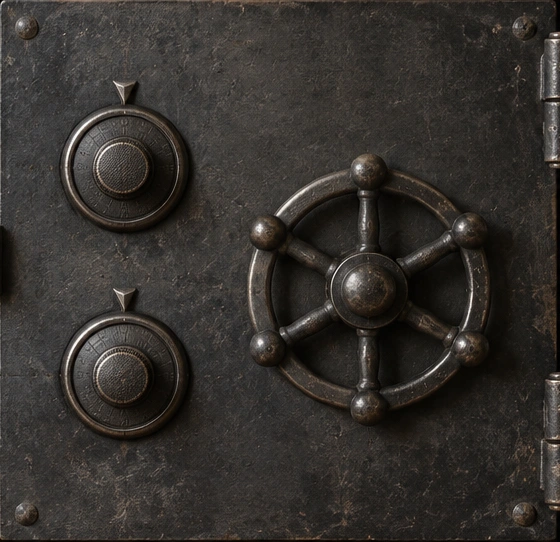
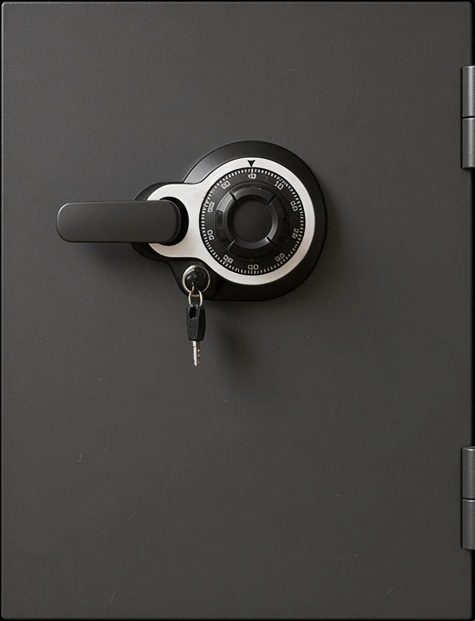
Replace the antique iron safe with a modern steel safe matched to the reference photo
New registered photo set (closed dial, keypad, open empty/gold/brass, door back) generated from one master shot; single live dial with white 0-40 graduations on the black disc; door, dial and readout coordinates re-measured; add measure-plates diagnostic.

diff --git a/src/components/vault/safe-stage.css b/src/components/vault/safe-stage.css
@@ -1,8 +1,8 @@
 .safe-stage { position: relative; width: 100%; aspect-ratio: 3 / 2; isolation: isolate; user-select: none; }
-.safe-photo-space { position: absolute; inset: 0; perspective: 1500px; perspective-origin: 65% 51%; }
+.safe-photo-space { position: absolute; inset: 0; perspective: 1500px; perspective-origin: 71% 50%; }
 .safe-room { display: block; width: 100%; height: 100%; object-fit: cover; pointer-events: none; }
-/* All coordinates are registered to the 1536 × 1024 source photograph. */
-.safe-cavity, .safe-door { position: absolute; left: 31.12%; top: 22.46%; width: 36.46%; height: 52.93%; }
+/* All coordinates are registered to the 1152 × 768 room plate (scripts/prepare-assets.mjs). */
+.safe-cavity, .safe-door { position: absolute; left: 29.514%; top: 8.854%; width: 41.233%; height: 80.859%; }
 .safe-cavity { overflow: hidden; }
 .safe-cavity img { display: block; width: 100%; height: 100%; }
 .safe-door { transform-origin: 100% 50%; transform-style: preserve-3d; transition: transform 1.8s cubic-bezier(.2,.65,.22,1); will-change: transform; }
@@ -11,13 +11,13 @@
 .safe-door-front { transform: translateZ(1px); }
 .safe-door-photo, .safe-door-back > img { display: block; width: 100%; height: 100%; object-fit: fill; pointer-events: none; }
 .safe-door-back { transform: rotateY(180deg) translateZ(6px); }
-.safe-door-thickness { position: absolute; left: 0; top: 0; width: 10px; height: 100%; transform: rotateY(90deg); transform-origin: 0 50%; background-color: #1b1c19; background-size: 100% 100%, auto 100%; background-position: 0 0, 0 0; filter: brightness(.8) contrast(1.1); }
-.live-dial { position: absolute; left: 10.18%; top: 19.37%; width: 22.86%; aspect-ratio: 1; border-radius: 50%; touch-action: none; cursor: ew-resize; }
-.dial-face { display: block; width: 100%; height: 100%; border-radius: 50%; transform: rotate(var(--dial-angle)); filter: drop-shadow(0 1px 1px #0006); }
-.idle-dial { position: absolute; left: 10.18%; top: 58.12%; width: 22.86%; aspect-ratio: 1; pointer-events: none; overflow: visible; }
-.dial-face text, .idle-dial text { font-family: Georgia, serif; paint-order: stroke fill; stroke: #191c19; stroke-width: .6; }
-.dial-access { position: absolute; left: 34.63%; top: 32.71%; width: 8.85%; aspect-ratio: 1; border-radius: 50%; touch-action: none; cursor: ew-resize; z-index: 3; }
+.safe-door-thickness { position: absolute; left: 0; top: 0; width: 12px; height: 100%; transform: rotateY(90deg); transform-origin: 0 50%; background-color: #3a3b3c; background-size: 100% 100%, auto 100%; background-position: 0 0, 0 0; filter: brightness(.85); }
+/* The rotating black number disc; the white bezel and index stay on the door plate. */
+.live-dial { position: absolute; left: 41.684%; top: 27.053%; width: 22.737%; aspect-ratio: 1; border-radius: 50%; touch-action: none; cursor: ew-resize; }
+.dial-face { display: block; width: 100%; height: 100%; border-radius: 50%; transform: rotate(var(--dial-angle)); clip-path: circle(49% at 50% 50%); }
+.dial-face text { font-family: 'Helvetica Neue', Arial, sans-serif; }
+.dial-access { position: absolute; left: 46.701%; top: 30.729%; width: 9.375%; aspect-ratio: 1; border-radius: 50%; touch-action: none; cursor: ew-resize; z-index: 3; }
 .dial-access:hover { box-shadow: 0 0 0 2px #e2ce8b66; }
 .dial-access:focus-visible { outline: 2px solid #e2ce8b; outline-offset: 4px; }
-.ember-readout { position: absolute; left: 12.8%; top: 23.1%; width: 22.5%; height: 8.4%; display: grid; place-items: center; font-family: 'Courier New', monospace; color: #e17d4e; font-size: clamp(10px, 2vw, 26px); font-weight: 700; line-height: 1; text-shadow: 0 0 6px #dc6838aa; }
+.ember-readout { position: absolute; left: 40.42%; top: 28.18%; width: 22.32%; height: 8.7%; display: grid; place-items: center; font-family: 'Courier New', monospace; color: #ff8a52; font-size: clamp(10px, 2.2vw, 28px); font-weight: 700; line-height: 1; text-shadow: 0 0 6px #ff6a2eaa, 0 0 14px #ff5a1e55; }
 @media (prefers-reduced-motion: reduce) { .safe-door { transition-duration: .01s; } }

diff --git a/src/components/vault/safe-stage.tsx b/src/components/vault/safe-stage.tsx
@@ -21,19 +21,20 @@ export function safeAsset(name: string): string {
 const wrap = (n: number) => ((n % 41) + 41) % 41;
 const step = 360 / 41;
 
-/** Engraved 0–40 ring drawn over a photographed dial. The dark band hides the photo's baked, illegible numerals. */
-function DialRing({ value, live = false }: { value: number; live?: boolean }): JSX.Element {
+/**
+ * White 0–40 graduations printed on the photographed black number disc (radius 62.8 in this viewBox).
+ * The black band hides the photo's baked, illegible numerals.
+ */
+function DialRing({ value }: { value: number }): JSX.Element {
   return <>
-    <circle r="46.5" fill="none" stroke="#161714" strokeOpacity=".68" strokeWidth="17" />
-    <circle r="55.2" fill="none" stroke="#9c9585" strokeOpacity=".35" strokeWidth=".5" />
-    <circle r="38.2" fill="none" stroke="#0c0d0b" strokeOpacity=".6" strokeWidth=".8" />
+    <circle r="53" fill="none" stroke="#0d0d0e" strokeOpacity=".94" strokeWidth="18.6" />
     {Array.from({ length: 41 }, (_, n) => {
       const major = n % 5 === 0 && n !== 40;
-      const current = live && n === value;
-      const near = live && Math.abs(wrap(n - value + 20) - 20) <= 2;
+      const current = n === value;
+      const near = Math.abs(wrap(n - value + 20) - 20) <= 2;
       return <g key={n} transform={`rotate(${-n * step})`}>
-        <path d={`M0,-55 v${major ? 4.6 : 2.6}`} stroke={current ? '#e8dcc0' : '#a49c8b'} strokeWidth={major || current ? '.95' : '.6'} />
-        {(current || (major && !near)) && <text y={current ? '-40.6' : '-41.6'} textAnchor="middle" fontSize={current ? 11 : 8.2} fontWeight={current ? 700 : 600} fill={current ? '#efe4c8' : live ? '#b4ab97' : '#9d9584'}>{n}</text>}
+        <path d={`M0,-61.6 v${major || current ? 5.4 : 3.2}`} stroke="#ecebe6" strokeOpacity={current || major ? 1 : .8} strokeWidth={major || current ? 1.3 : .8} />
+        {(current || (major && !near)) && <text y={current ? '-45.4' : '-46.4'} textAnchor="middle" fontSize={current ? 12.5 : 9.4} fontWeight={current ? 700 : 600} fill={current ? '#ffffff' : '#dcdbd5'}>{n}</text>}
       </g>;
     })}
   </>;
@@ -66,7 +67,7 @@ export function SafeStage({ kind, value, found, pins, locked, open, glow, loot =
   }
   const style = { '--dial-angle': `${current.current.angle}deg`, '--signal': Math.max(0, Math.min(1, glow)) } as CSSProperties;
   const progress = Math.max(found, locked.length);
-  const alt = `${open ? 'Open' : 'Closed'} antique charcoal iron ${kind === 'pad' ? 'keypad' : 'dial'} safe${open ? loot === 'gold' ? ', with one gold bar on the shelf' : loot === 'brass' ? ', with brass coins on the shelf' : ', with an empty dark shelf' : ''}`;
+  const alt = `${open ? 'Open' : 'Closed'} charcoal steel ${kind === 'pad' ? 'keypad' : 'dial'} safe${open ? loot === 'gold' ? ', with one gold bar on the shelf' : loot === 'brass' ? ', with brass coins on the shelf' : ', with an empty dark shelf' : ''}`;
 
   return <div className={`safe-stage ${open ? 'is-open' : ''} ${className}`} style={style} data-kind={kind} data-loot={open ? loot : 'hidden'} aria-label={alt}>
     <div className="safe-photo-space">
@@ -81,10 +82,9 @@ export function SafeStage({ kind, value, found, pins, locked, open, glow, loot =
           <div className="live-dial" onPointerDown={pointerDown} onPointerMove={pointerMove} onPointerUp={() => { drag.current = null; }} onPointerCancel={() => { drag.current = null; }}>
             <svg className="dial-face" viewBox="-64 -64 128 128">
               <image href={safeAsset('dial-face.webp')} x="-64" y="-64" width="128" height="128" />
-              <DialRing value={value} live />
+              <DialRing value={value} />
             </svg>
           </div>
-          <svg className="idle-dial" viewBox="-64 -64 128 128"><DialRing value={0} /></svg>
         </> : <div className="ember-readout">{value < 0 ? '−' : value}</div>}
       </div>
       <div className="safe-door-back"><img src={safeAsset('door-back.webp')} alt="" draggable={false} /></div>

diff --git a/src/main.jsx b/src/main.jsx
@@ -169,7 +169,7 @@ function App() {
 function CountingHouse({ save, buy, selectDoor }) {
   return <><div className="page-heading"><div><span className="eyebrow">A LITTLE BRASS GOES A LONG WAY</span><h1>The counting house.</h1></div><span className="quiet-note">New doors. Better tools. Another chance.</span></div>
     <div className="shop-section-heading"><h2>Pick your next door</h2><span>One attempt per door · Three misses seize it</span></div>
-    <div className="shop-grid">{DOORS.filter(d => d.cost).map(d => <article className="shop-card" key={d.id}><div className="shop-picture"><img src={safeAsset(`thumb-${d.kind}.webp`)} alt={`Photographic ${d.kind === 'dial' ? 'combination' : 'keypad'} iron safe`} loading="lazy"/><span className="shop-stock">{save.doors[d.id]} IN YOUR WORKSHOP</span></div><div className="shop-card-body"><span className="eyebrow">{d.difficulty}</span><h3>{d.name}</h3><p>{d.description}</p><div className="shop-odds"><span>{d.brass} brass payout</span><span>{Math.round(d.goldChance * 100)}% gold</span></div><button className="purchase-button" disabled={save.brass < d.cost} onClick={() => buy(d.id, 'door')}>Buy a door <span><Coin/>{d.cost}</span></button>{save.doors[d.id] > 0 && <button className="text-button crack-owned" onClick={() => selectDoor(d)}>Crack an owned door <Icon name="arrow" size={13}/></button>}</div></article>)}</div>
+    <div className="shop-grid">{DOORS.filter(d => d.cost).map(d => <article className="shop-card" key={d.id}><div className="shop-picture"><img src={safeAsset(`thumb-${d.kind}.webp`)} alt={`Photographic ${d.kind === 'dial' ? 'combination' : 'keypad'} steel safe`} loading="lazy"/><span className="shop-stock">{save.doors[d.id]} IN YOUR WORKSHOP</span></div><div className="shop-card-body"><span className="eyebrow">{d.difficulty}</span><h3>{d.name}</h3><p>{d.description}</p><div className="shop-odds"><span>{d.brass} brass payout</span><span>{Math.round(d.goldChance * 100)}% gold</span></div><button className="purchase-button" disabled={save.brass < d.cost} onClick={() => buy(d.id, 'door')}>Buy a door <span><Coin/>{d.cost}</span></button>{save.doors[d.id] > 0 && <button className="text-button crack-owned" onClick={() => selectDoor(d)}>Crack an owned door <Icon name="arrow" size={13}/></button>}</div></article>)}</div>
     <div className="shop-section-heading tools-heading"><h2>A better set of ears</h2><span>Buy once. Keep forever.</span></div>
     <div className="tools-grid">{TOOLS.map(t => <article className="tool-card" key={t.id}><div className="tool-icon"><Icon name={t.id === 'stethoscope' ? 'ear' : 'lock'} size={30}/></div><div><span className="eyebrow">{t.id === 'stethoscope' ? 'MECHANICAL SAFES' : 'ELECTRONIC SAFES'}</span><h3>{t.name}</h3><p>{t.description}</p></div><button className="purchase-button" disabled={save.tools.includes(t.id) || save.brass < t.cost} onClick={() => buy(t.id, 'tool')}>{save.tools.includes(t.id) ? <><Icon name="check" size={16}/>Equipped</> : <>Equip <span><Coin/>{t.cost}</span></>}</button></article>)}</div>
     <div className="cash-packs"><div><span className="eyebrow">CASH PACKS</span><h3>Listed for another day.</h3><p>These packs are not for sale.</p></div>{[500, 1500, 5000].map(n => <div className="cash-pack" key={n}><Coin/><strong>{n.toLocaleString()} brass</strong><small>NOT FOR SALE</small></div>)}</div>

diff --git a/README.md b/README.md
@@ -1,6 +1,6 @@
 # Vaultstead
 
-A playable, photographic antique safe opening game built with React 19. The safe uses registered photographic plates, a CSS door hinge, and a rotating photographic dial. It imports no Three.js or server-only code.
+A playable, photographic safe opening game built with React 19. The safe uses registered photographic plates, a CSS door hinge, and a rotating photographic dial. It imports no Three.js or server-only code.
 
 ## Play without installation
 
@@ -35,15 +35,16 @@ The same cabinet appears in all states. `Inspect the safe` shows the closed dial
 
 ## Image assets
 
-All six source images were made with the built-in **image_gen** tool from the user's written specification. No reference image was available. The full final prompt set is in [docs/asset-prompts.json](docs/asset-prompts.json).
+The safe is a hybrid of the user's reference photo and written brief: a modern matte charcoal steel fire safe (single combination dial in a white bezel, lever handle, key lock, right hinge, chrome locking bolts on the door's inner left edge, no branding), photographed straight on in the brief's plaster-and-oak room on a faded red rug. All six source images were generated from one master shot, with the other five made as edits of it so the room and cabinet stay registered. The prompts are in [docs/asset-prompts.json](docs/asset-prompts.json).
 
-- Source photographs: `assets/source/`
+- Source photographs: `assets/source/` (1152 × 864)
 - Optimized runtime plates: `public/assets/safe/`
-- Plate registration and WebP encoding: `scripts/prepare-assets.mjs` (requires sharp, already bundled in this workspace).
-- Door crop: x 478, y 230, width 560, height 542 from 1536 × 1024 source images.
-- Live dial face crop: x 535, y 335, width 128, height 128.
+- Plate registration and WebP encoding: `scripts/prepare-assets.mjs` (requires sharp, already bundled in this workspace). `scripts/measure-plates.mjs` re-measures the door gap and each variant's pixel drift against the master.
+- Room plate: the 1152 × 768 band starting at y 40.
+- Door crop: x 340, y 108, width 475, height 621, shifted per source by its measured drift.
+- Live dial: the black number disc, centre (592, 330), radius 53, cropped at 108 × 108 and upscaled to 256.
 
-The room and cabinet do not move. The right-hinged door rotates as one photographed layer, with photographed boltwork on its reverse. Loot photographs are only selected after a successful open. SVG provides accurate engraved 0–40 numerals over the rotating circular dial photo.
+The room and cabinet do not move. The right-hinged door rotates as one photographed layer, with photographed locking bolts on its reverse. Loot photographs are only selected after a successful open. SVG prints white 0–40 graduations over the rotating black disc; the current value is bold under the bezel's fixed index.
 
 ## Checks
 
